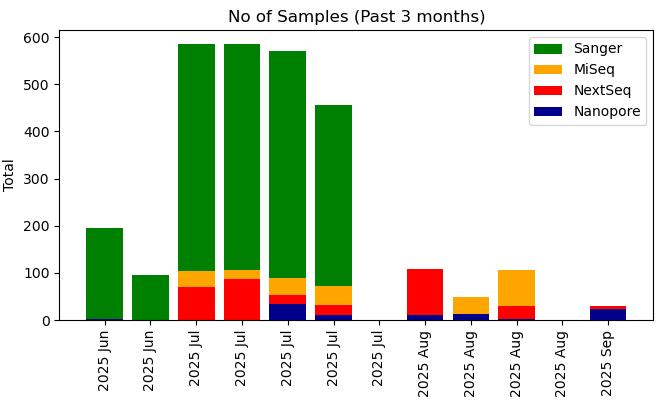
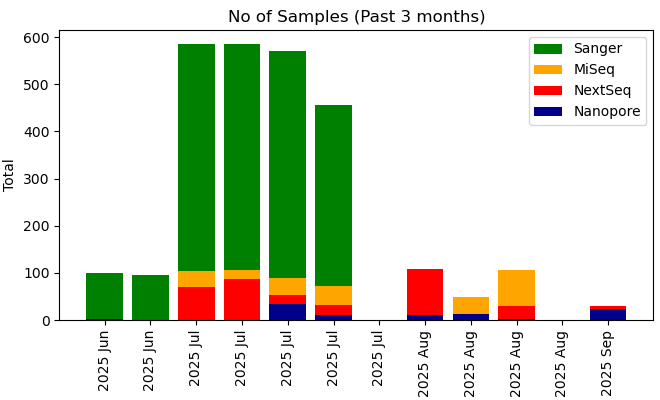
Your commit message here

Changed region(s): [[0.1212, 0.57, 0.2121, 0.69]]

diff --git a/krona/cgs.html b/krona/cgs.html
@@ -52,8 +52,8 @@ body {
   flex-direction: column;
 }
 </style>
-<H1>Genomics Facility Status: 07:00:13, 19/09/2025</H1>
-<marquee behavior="scroll" scrollamount="20" direction="left" bgcolor="lightgrey">AGAGTTTGATCCTGGCTCAGGATGAACGCTAGCTACAGGCTTAACACATGCAAGTCGAGGGGAAACGACATCGAAAGCTTGTTTGAGGTGTGCGTCGACGGGCGCACGGGTGAGAAACGCGTAACCAACCTGCCCACCACTTGGGGATAACCTTGCGAAAGTAAGAATAACACCTAATGATATCTATAGCAGACATCTGAAAGAGATTAGGGATTAAACGGTGAGGGATGGGGATGCGTCTGATTAGCTTG</marquee>
+<H1>Genomics Facility Status: 07:00:22, 20/09/2025</H1>
+<marquee behavior="scroll" scrollamount="20" direction="left" bgcolor="lightgrey">AAAGAGCGTGGATTACTATCTGAGTCCGATGCTGTTCAACCACTAATAGGTAAGAAATCATGAGTCAAGTTACTGAACAATCCGTACGTTTCCAGACCGCTTTGGCCTCTATTAAGCTCATTCAGGCTTCTGCCGTTTTGGATTTAACCGAAGATGATTTCGATTTTCTGACGAGTAACAAAGTTTGGATTGCTACTGACCGCTCTCGTGCTCGTCGCTGCGTTGAGGCTTGCGTTTATGGTACGCTGGAC</marquee>
 <TABLE BORDER=0><TR><TD><TABLE class="styled-table"><H3>GigaBases Sequenced</H3>
-<TR><TD><b>Platform</b></TD><TD><b>Week</b></TD><TD><b>Month</b></TD><TD><b>Year</b></TD><TD><b>Total</b></TD></TR><TR><TD>Illumina MiSeq</TD><TD>0.0</TD><TD>21.92</TD><TD>287.91</TD><TD>287.91</TD></TR><TR><TD>Illumina NextSeq</TD><TD>0.0</TD><TD>52.19</TD><TD>4435.7</TD><TD>4435.7</TD></TR><TR><TD>Nanopore PromethION</TD><TD>0.0</TD><TD>358.86</TD><TD>5078.1</TD><TD>6986.56</TD></TR><TR><TD>Sanger</TD><TD>0.0</TD><TD>0.0</TD><TD>0.02</TD><TD>0.03</TD></TR></TABLE></TD><TD><IMG SRC="fig1.png"><IMG SRC="fig2.png"></TD></TR><TR><TD><H3>No. Samples (No. Experiments)</H3>
-<TABLE class="styled-table"><TR><TD><b>Platform</b></TD><TD><b>Week</b></TD><TD><b>Month</b></TD><TD><b>Year</b></TD><TD><b>Total</b></TD></TR><TR><TD>Illumina MiSeq</TD><TD>0 (0)</TD><TD>76 (5)</TD><TD>1397 (43)</TD><TD>1397 (43)</TD></TR><TR><TD>Illumina NextSeq</TD><TD>0 (0)</TD><TD>33 (2)</TD><TD>1359 (48)</TD><TD>1359 (48)</TD></TR><TR><TD>Nanopore PromethION</TD><TD>0 (0)</TD><TD>28 (5)</TD><TD>320 (128)</TD><TD>589 (194)</TD></TR><TR><TD>Sanger</TD><TD>0 (0)</TD><TD>0 (0)</TD><TD>19943 (19943)</TD><TD>28103 (28103)</TD></TR></TABLE></TD><TD><IMG SRC="fig4.png"></TD></TR></TABLE></HTML>
+<TR><TD><b>Platform</b></TD><TD><b>Week</b></TD><TD><b>Month</b></TD><TD><b>Year</b></TD><TD><b>Total</b></TD></TR><TR><TD>Illumina MiSeq</TD><TD>0.0</TD><TD>21.49</TD><TD>287.91</TD><TD>287.91</TD></TR><TR><TD>Illumina NextSeq</TD><TD>0.0</TD><TD>52.19</TD><TD>4435.7</TD><TD>4435.7</TD></TR><TR><TD>Nanopore PromethION</TD><TD>0.0</TD><TD>358.86</TD><TD>5078.1</TD><TD>6986.56</TD></TR><TR><TD>Sanger</TD><TD>0.0</TD><TD>0.0</TD><TD>0.02</TD><TD>0.03</TD></TR></TABLE></TD><TD><IMG SRC="fig1.png"><IMG SRC="fig2.png"></TD></TR><TR><TD><H3>No. Samples (No. Experiments)</H3>
+<TABLE class="styled-table"><TR><TD><b>Platform</b></TD><TD><b>Week</b></TD><TD><b>Month</b></TD><TD><b>Year</b></TD><TD><b>Total</b></TD></TR><TR><TD>Illumina MiSeq</TD><TD>0 (0)</TD><TD>64 (4)</TD><TD>1397 (43)</TD><TD>1397 (43)</TD></TR><TR><TD>Illumina NextSeq</TD><TD>0 (0)</TD><TD>33 (2)</TD><TD>1359 (48)</TD><TD>1359 (48)</TD></TR><TR><TD>Nanopore PromethION</TD><TD>0 (0)</TD><TD>28 (5)</TD><TD>320 (128)</TD><TD>589 (194)</TD></TR><TR><TD>Sanger</TD><TD>0 (0)</TD><TD>0 (0)</TD><TD>19943 (19943)</TD><TD>28103 (28103)</TD></TR></TABLE></TD><TD><IMG SRC="fig4.png"></TD></TR></TABLE></HTML>
